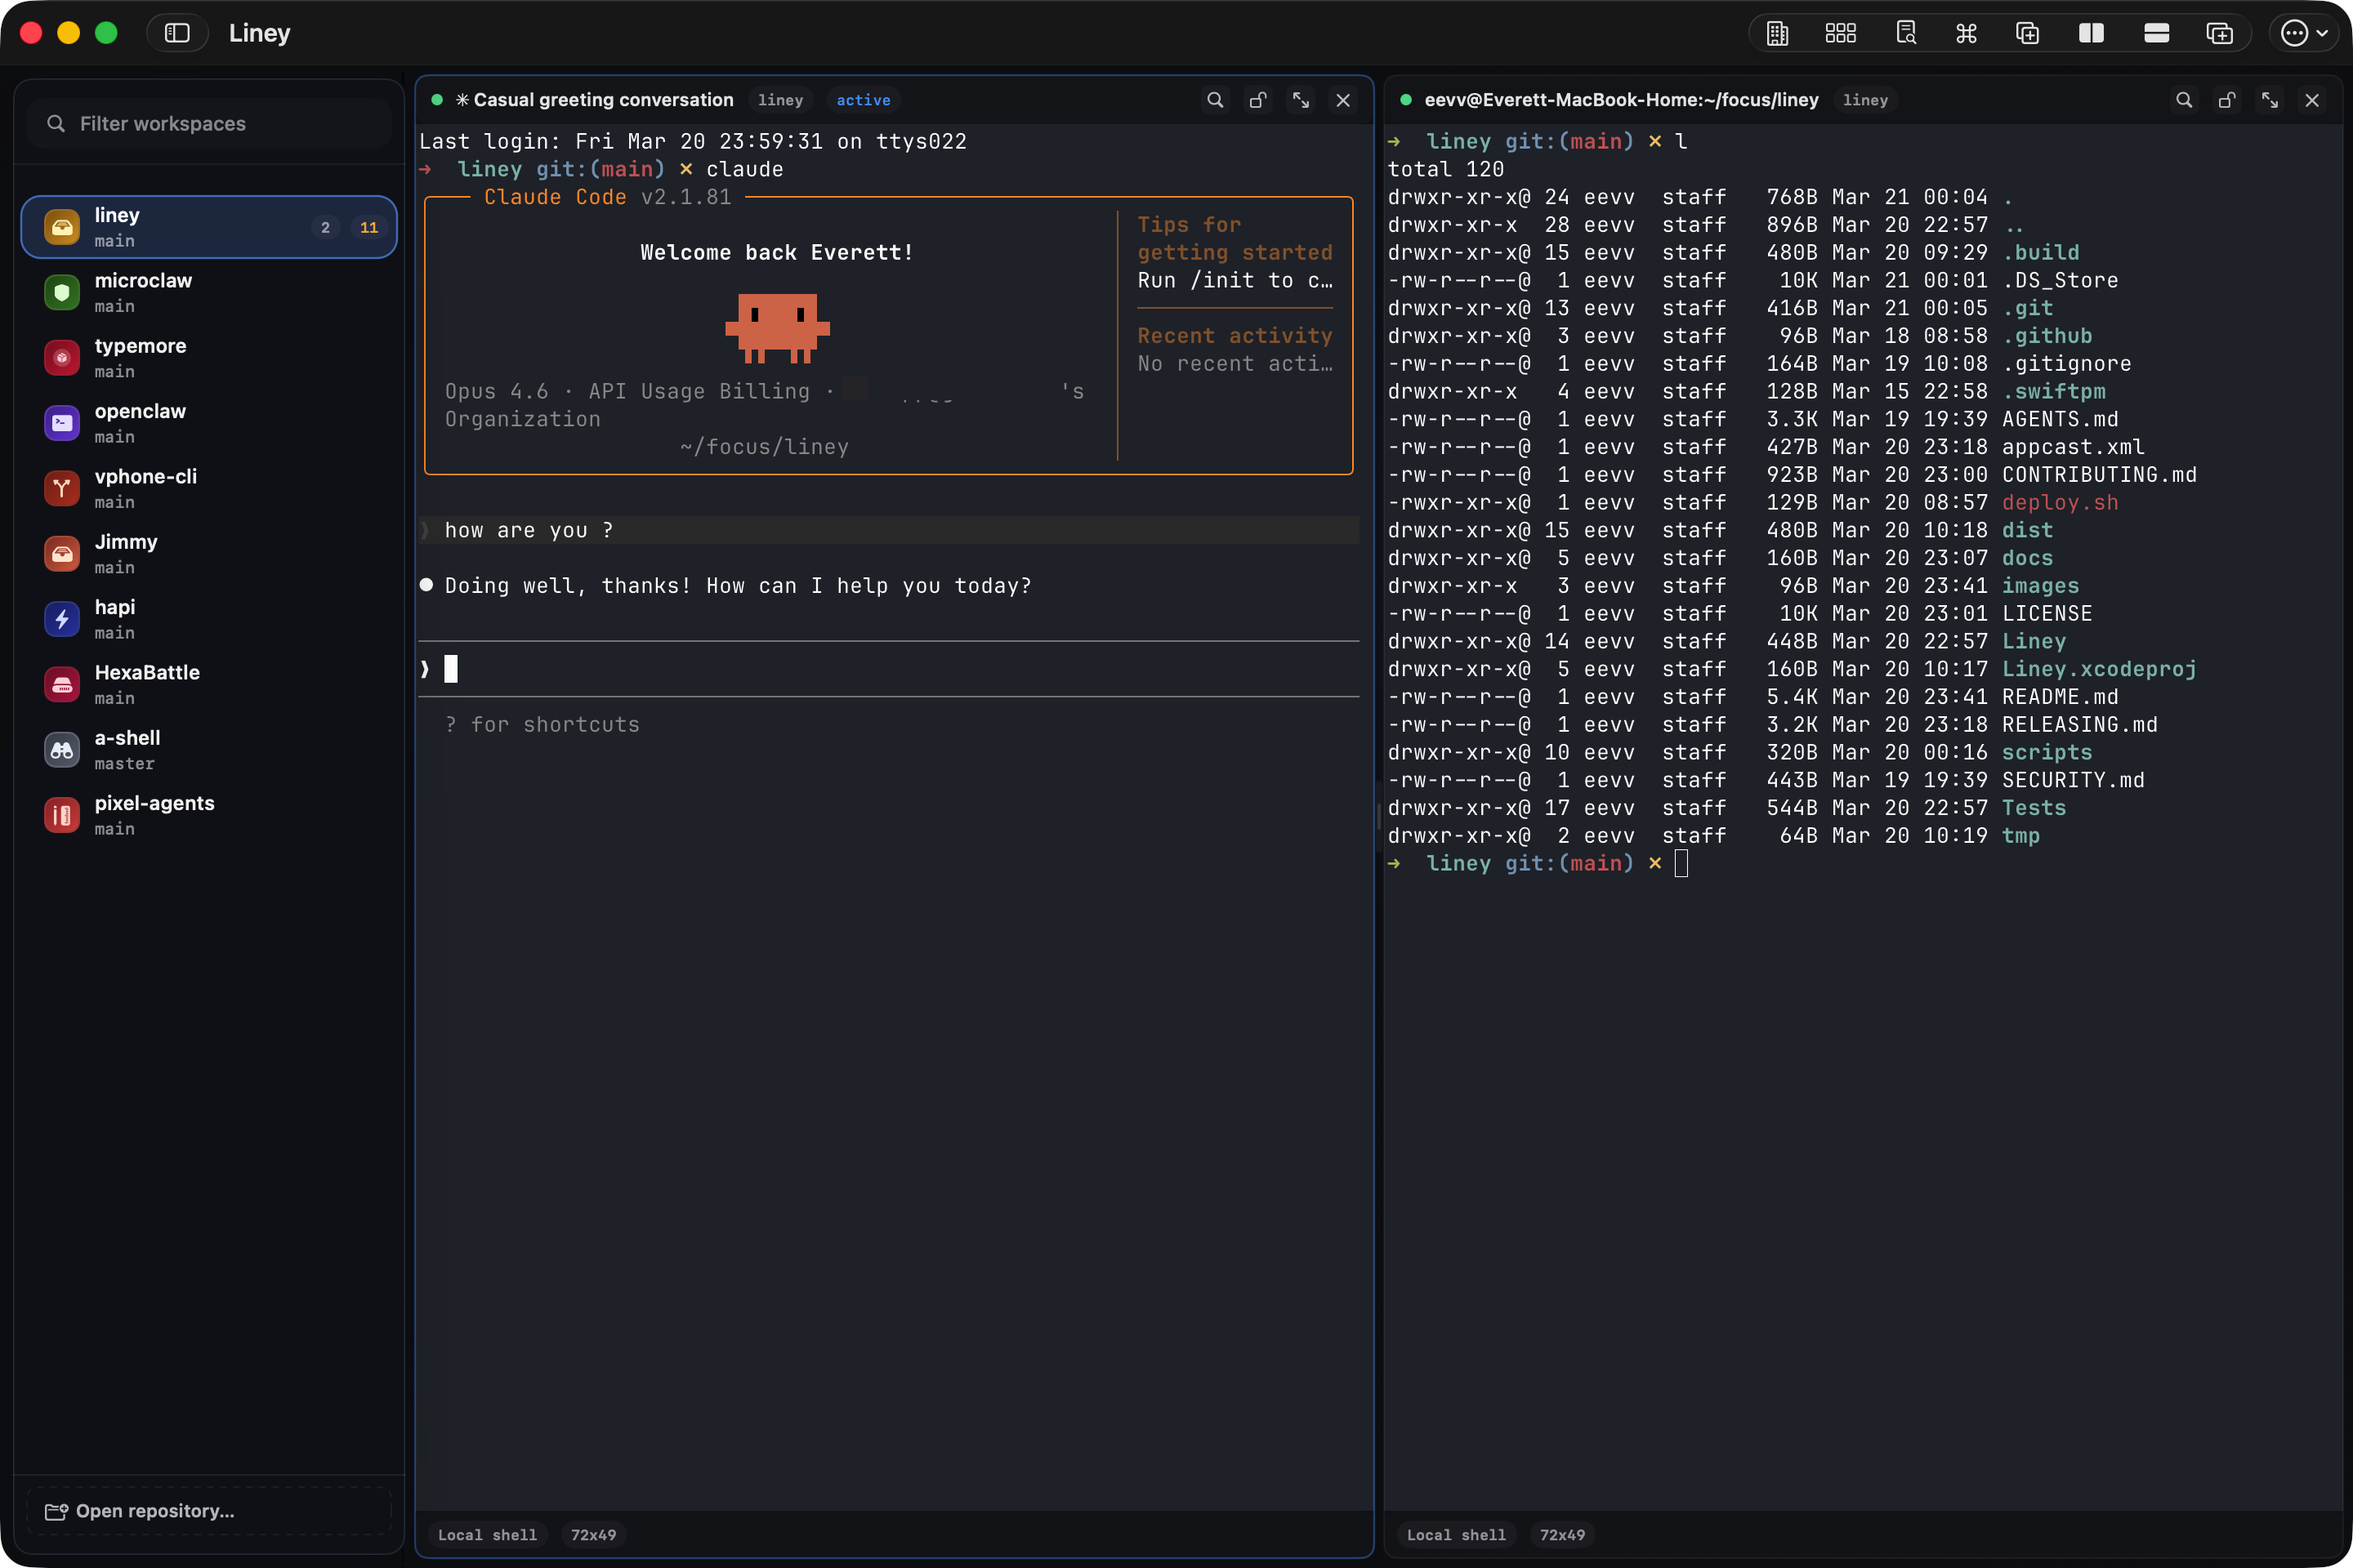
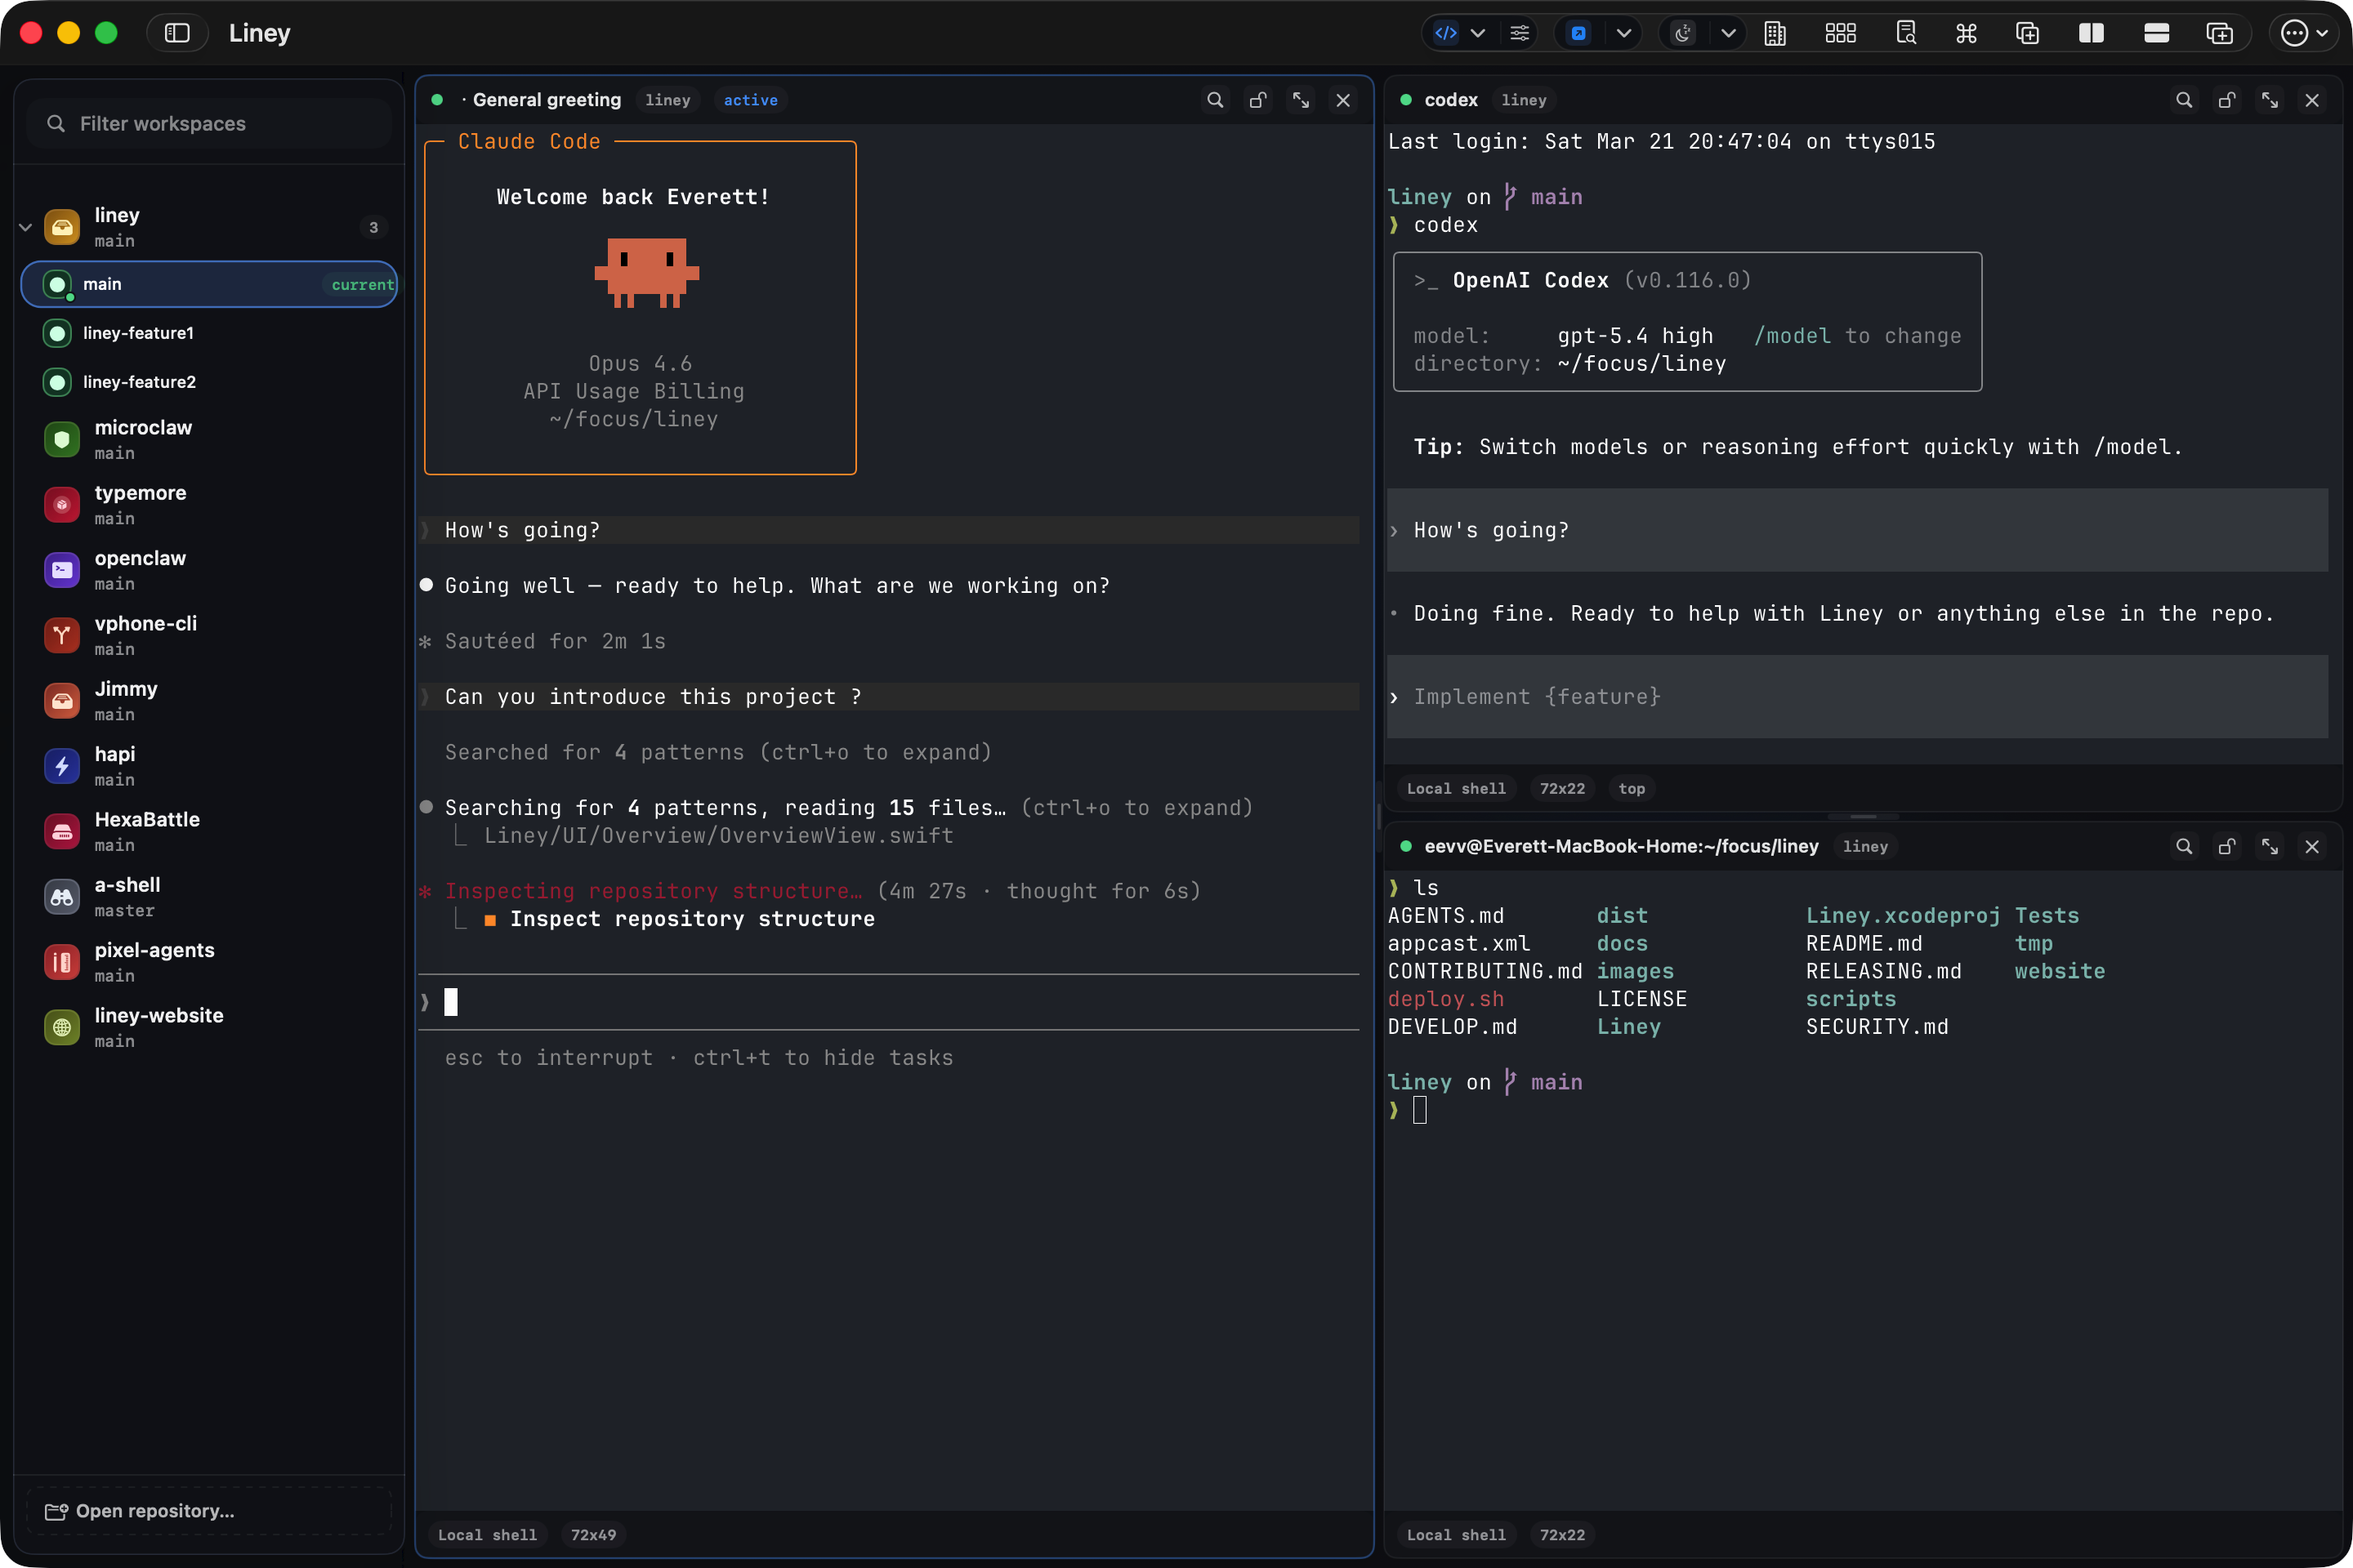
update agents.md

diff --git a/AGENTS.md b/AGENTS.md
@@ -1,32 +1,40 @@
-# Liney 仓库协作指南
+# Liney Repository Collaboration Guide
 
-## 项目概览
+## Project Overview
 
-Liney 是一个原生 macOS 终端工作区应用，技术栈是 `AppKit + SwiftUI + libghostty`。
-当前代码已经从早期的根级 Swift Package 结构迁移到 Xcode 工程布局，主要交互围绕多仓库 sidebar、worktree 切换和多 pane 终端会话展开。
+Liney is a native macOS terminal workspace app built around `AppKit + SwiftUI + a vendored Ghostty runtime`.
+The core product experience centers on a multi-repository sidebar, worktree switching, terminal pane and tab layout restoration, diff and overview helper views, and GitHub and update-related features.
 
-## 目录结构
+The repository now uses an Xcode project as the primary development entry point. The root still contains release scripts, docs, website code, and local build artifacts.
 
-- `Liney/`：应用源码根目录。
-- `Liney/App/`：应用级状态与入口装配，重点看 `WorkspaceStore.swift`。
-- `Liney/Domain/`：工作区、worktree、pane layout 的领域模型。
-- `Liney/Persistence/`：工作区状态持久化与迁移。
-- `Liney/Services/Git/`：git 仓库检查、fetch、worktree 操作。
-- `Liney/Services/Process/`：子进程执行封装。
-- `Liney/Services/Terminal/`：Ghostty runtime、terminal surface、session backend。
-- `Liney/Support/`：主题、菜单、路径格式化和通用支持代码。
-- `Liney/UI/Components/`：状态栏和复用 UI 组件。
-- `Liney/UI/Sheets/`：创建 worktree、SSH、agent session 等弹窗。
-- `Liney/UI/Sidebar/`：左侧工作区树，核心文件是 `WorkspaceSidebarView.swift`。
-- `Liney/UI/Workspace/`：右侧工作区详情、split panes、terminal pane UI。
-- `Liney/Vendor/`：vendored `GhosttyKit.xcframework`。
-- `Tests/`：当前单元测试。
-- `RELEASING.md`：维护者发布说明。
-- `scripts/`：macOS app bundle / release 脚本。
+## Repository Layout
 
-## 工程与构建
+- `Liney/`: Main application source root.
+- `Liney/App/`: App assembly and high-level state orchestration. Start with `WorkspaceStore.swift`, `LineyDesktopApplication.swift`, and `WorkspaceGitHubCoordinator.swift`.
+- `Liney/Domain/`: Domain models for workspaces, pane layouts, tabs, and related state.
+- `Liney/Persistence/`: Workspace state, settings persistence, and migrations.
+- `Liney/Services/Git/`: Git repository inspection, worktree discovery, GitHub CLI integration, and metadata watching.
+- `Liney/Services/Process/`: Subprocess execution wrappers.
+- `Liney/Services/Terminal/`: Terminal sessions, Ghostty bridge code, and surface/controller lifecycle management.
+- `Liney/Services/Updates/`: Sparkle update checks and install flow entry points.
+- `Liney/Support/`: Menus, commands, path formatting, external editor support, sleep prevention, and shared UI state.
+- `Liney/UI/Sidebar/`: Left sidebar tree and bridge logic. The key file is `WorkspaceSidebarView.swift`.
+- `Liney/UI/Workspace/`: Workspace detail views, pane containers, and terminal pane UI.
+- `Liney/UI/Overview/`: Repository overview and desk views plus their view model.
+- `Liney/UI/Diff/`: Diff window state, rendering, and changed-file models.
+- `Liney/UI/Canvas/`: Global canvas-style UI.
+- `Liney/UI/Sheets/`: Sheets for creating worktrees, SSH sessions, agent sessions, settings, and related flows.
+- `Liney/UI/Components/`: Reusable UI components such as the command palette, terminal host, and toolbar icons.
+- `Liney/Vendor/`: Vendored `GhosttyKit.xcframework`. Do not modify this without explicit need.
+- `Tests/`: Unit tests covering git parsing, pane layout, terminal sessions, Ghostty input support, overview, diff, workspace tabs and settings, and related logic.
+- `docs/`: Maintainer documentation such as testing and terminal architecture notes.
+- `scripts/`: Local build, signing, release, Sparkle, and Homebrew publishing scripts.
+- `website/`: Website source, separate from the macOS app project.
+- `dist/`: Local build artifacts. Usually not edited directly.
 
-优先使用仓库根目录的 Xcode 工程：
+## Build And Test
+
+Use the root `Liney.xcodeproj` by default:
 
 ```sh
 xcodebuild \
@@ -37,29 +45,48 @@ xcodebuild \
   build
 ```
 
-补充说明：
+Run tests with:
 
-- 当前协作默认使用仓库根目录的 `Liney.xcodeproj`。
-- 发布脚本位于 `scripts/build_macos_app.sh` 和 `scripts/release_macos.sh`，它们依赖额外的发布输入和签名环境，不适合作为日常改动后的最小验证命令。
+```sh
+xcodebuild \
+  -project Liney.xcodeproj \
+  -scheme Liney \
+  -destination 'platform=macOS,arch=arm64' \
+  test
+```
 
-## 测试与验证
+Additional notes:
 
-- UI 或状态管理改动后，至少执行一次 `xcodebuild ... build`。
-- git / worktree / layout 逻辑改动时，优先查看并补充 `Tests/` 下对应单元测试。
-- 涉及 sidebar、pane 布局、worktree 操作或发版流程时，补充必要的手工 smoke test，并在结果里写清覆盖范围。
+- The current project targets are `Liney` and `LineyTests`, and the main scheme is `Liney`.
+- Dependencies are resolved through Xcode. Current Swift packages include Sparkle and Sentry.
+- Release-oriented scripts include `scripts/build_macos_app.sh`, `scripts/release_macos.sh`, and the root `deploy.sh`. They depend on signing, notarization, or release credentials and are not the default verification path for routine changes.
+- Documentation, script, or website changes do not automatically require a full app build, but command examples, paths, and references must remain valid.
 
-## 代码热点
+## Testing And Verification
 
-- `Liney/App/WorkspaceStore.swift`：大多数用户动作的入口，包含新增仓库、切换 worktree、创建 pane、刷新仓库等编排逻辑。
-- `Liney/UI/Sidebar/WorkspaceSidebarView.swift`：左侧树形列表、搜索、上下文菜单、多选与拖拽排序。
-- `Liney/UI/Workspace/WorkspaceDetailView.swift`：右侧工作区详情与 pane 容器。
-- `Liney/Services/Git/GitRepositoryService.swift`：git 状态解析与仓库检查。
-- `Liney/Services/Terminal/`：会话启动与 Ghostty bridge；改这里前先确认不会破坏现有 AppKit 集成。
+- After UI, state-management, terminal lifecycle, or update-flow changes, run at least one `xcodebuild ... build`.
+- For git, worktree, layout, diff, overview, or settings logic changes, prefer adding or updating focused unit tests under `Tests/`.
+- For terminal input, keyboard shortcut, IME, or Ghostty adapter changes, pay special attention to `Tests/LineyGhosttyInputSupportTests.swift` and `Tests/ShellSessionTests.swift`.
+- For changes affecting the sidebar, pane layout, worktree switching, command palette, diff windows, or external editor integration, include a brief manual smoke test and state what was covered.
+- For documentation-only changes, at minimum verify that referenced files still exist and command examples still match the current project layout.
 
-## 修改约定
+## Code Hotspots
 
-- 保持现有的 `AppKit 容器 + SwiftUI 内容` 模式，不要为了小改动重写整块 UI 架构。
-- sidebar 是自定义 `NSOutlineView` 桥接，改动时注意不要破坏多选、右键菜单、键盘操作和拖拽重排。
-- 终端相关代码默认依赖 vendored `libghostty`，不要引入新的备用终端实现。
-- 没有明确需求时，不要修改 `Vendor/` 下的二进制依赖。
-- 如果文档中的目录结构、命令或测试路径因代码变更失效，更新对应文档，避免继续漂移。
+- `Liney/App/WorkspaceStore.swift`: Main orchestration entry point for user actions, including repository refresh, worktree switching, and pane or tab management.
+- `Liney/UI/Sidebar/WorkspaceSidebarView.swift`: Sidebar tree, search, multi-selection, context menus, and drag reordering.
+- `Liney/UI/Workspace/WorkspaceDetailView.swift`: Main workspace detail view and pane container.
+- `Liney/Services/Git/GitRepositoryService.swift`: Git status parsing, branch information, and worktree inspection.
+- `Liney/Services/Terminal/`: Session launch, Ghostty runtime integration, and terminal surface/controller logic. Confirm AppKit integration is preserved before making changes here.
+- `Liney/UI/Overview/OverviewViewModel.swift`: Overview data shaping and derived state.
+- `Liney/UI/Diff/DiffRendering.swift`: Core diff rendering logic. Review diff-related tests when changing it.
+- `Liney/Services/Updates/AppUpdaterController.swift`: Sparkle update entry point.
+- `Liney/Support/QuickCommandSupport.swift` and `Liney/UI/Components/CommandPaletteView.swift`: Command palette and quick-command behavior.
+
+## Modification Conventions
+
+- Preserve the existing `AppKit container + SwiftUI content` architecture. Do not rewrite major UI sections for small changes.
+- The sidebar relies on a custom `NSOutlineView` bridge. Changes there must not break multi-selection, context menus, keyboard interaction, or drag reordering.
+- The terminal stack depends on the vendored Ghostty runtime and the adapters under `Liney/Services/Terminal/Ghostty/`. Do not introduce an alternate terminal implementation.
+- Unless explicitly required, do not modify binary dependencies under `Liney/Vendor/` or casually alter signing and notarization behavior in release scripts.
+- For GitHub CLI, Sparkle, Sentry, or external-editor-related work, prefer the existing service or support-layer entry points instead of scattering process execution logic into the UI layer.
+- If code changes invalidate directory descriptions, build commands, test entry points, or release paths, update `README.md`, `DEVELOP.md`, `docs/`, `RELEASING.md`, or nearby script comments so documentation does not drift.
